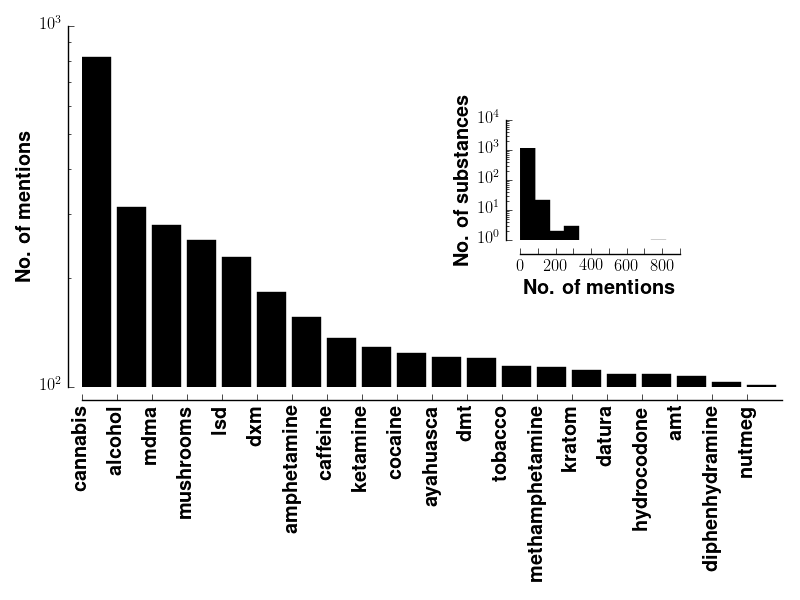
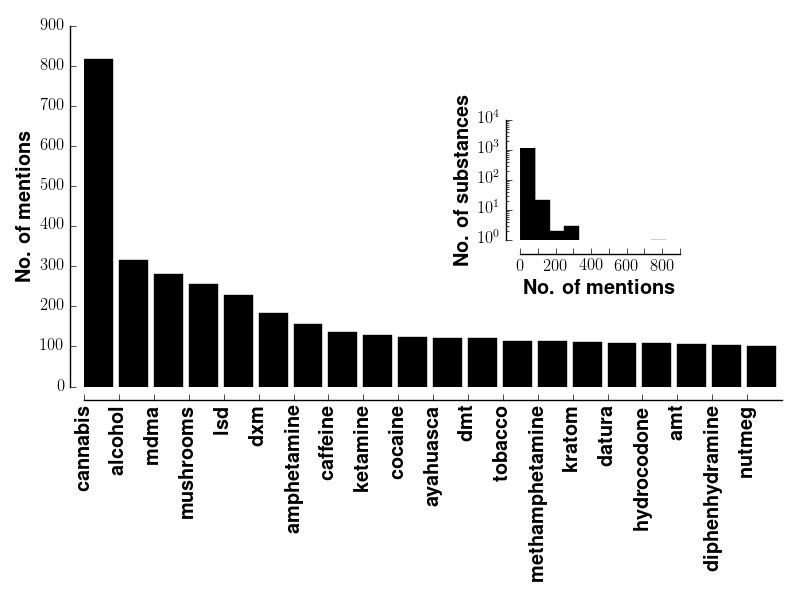
drug frequencies not on log scale

diff --git a/drug_name_frequencies.py b/drug_name_frequencies.py
@@ -15,7 +15,7 @@ idx = range(len(frequency))
 
 fig = plt.figure()
 ax = fig.add_subplot(111)
-ax.bar(idx,frequency, color='k', log=True)
+ax.bar(idx,frequency, color='k')
 
 artist.adjust_spines(ax)
 ax.set_ylabel(artist.format('No. of mentions'))
